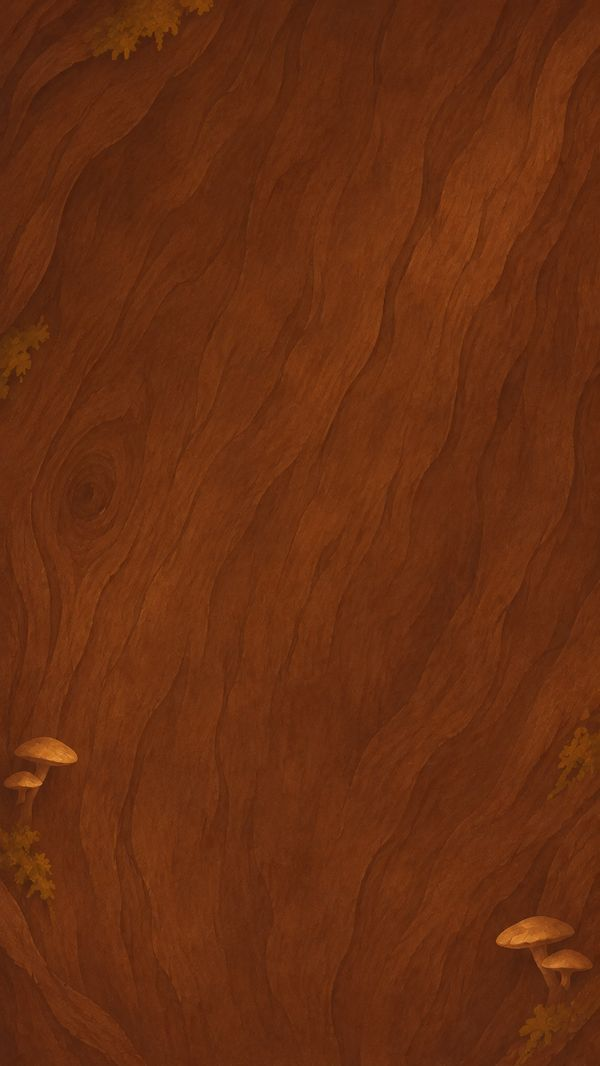
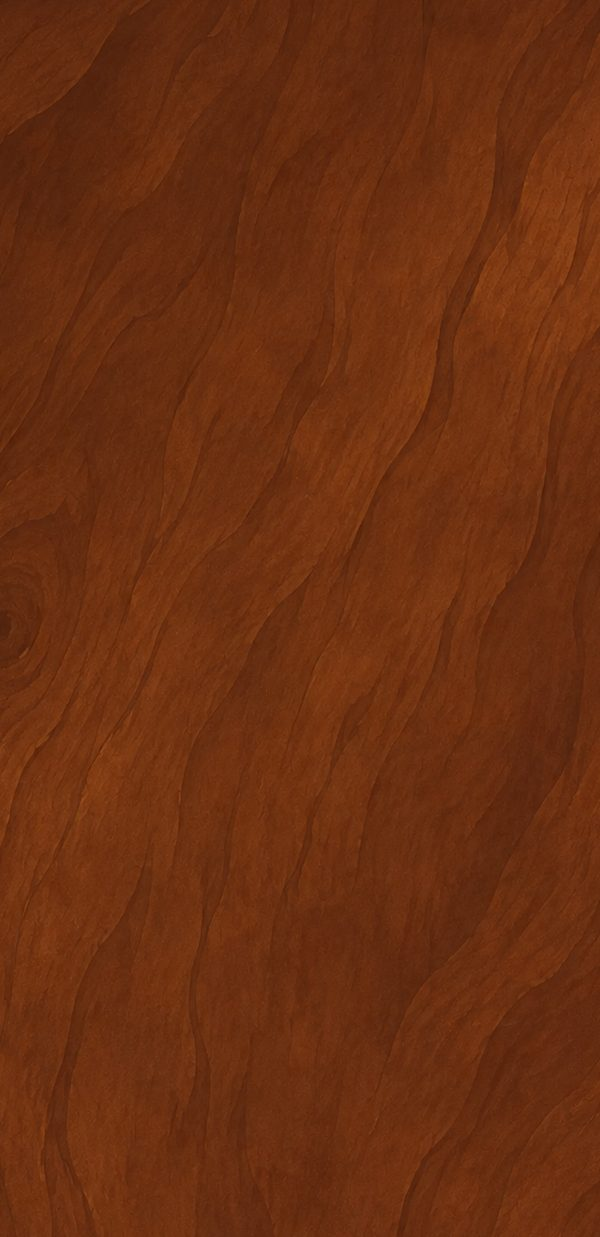
Parking lot: stone wallpaper (light) and darkened stone (dark); dark bark cropped to remove mushrooms and moss
Claude-Session: https://claude.ai/code/session_01P3d8ZTZshbTSJw1MMxChow

diff --git a/styles.css b/styles.css
@@ -428,7 +428,7 @@ html:root[data-look] .tabs button[data-v="today"][aria-current="page"]{backgroun
 .lotbg{position:fixed;inset:0;background:color-mix(in srgb,var(--ink) 45%,transparent);z-index:18;display:flex;justify-content:flex-end}
 .lot{width:min(92%,390px);height:100%;overflow-y:auto;padding:calc(18px + env(safe-area-inset-top,0px)) max(14px,env(safe-area-inset-right,0px)) calc(24px + env(safe-area-inset-bottom,0px)) 16px;display:flex;flex-direction:column;gap:14px;color:var(--paint);
   background-color:var(--pave);
-  background-image:url(art/asphalt.jpg);background-size:cover;background-position:center;box-shadow:-18px 0 40px -20px rgba(0,0,0,.5)}
+  background-image:url(art/stone.jpg);background-size:cover;background-position:center;box-shadow:-18px 0 40px -20px rgba(0,0,0,.5)}
 .lot.enter{animation:lotin .22s ease-out}
 @keyframes lotin{from{transform:translateX(30px);opacity:.4}to{transform:none;opacity:1}}
 .lottitle{font-size:26px;color:var(--paint);border-bottom:3px double var(--paintY);padding-bottom:6px;flex:1}
@@ -705,3 +705,14 @@ html:root[data-look] .tabs button[data-v="today"][aria-current="page"]{backgroun
 :root:not([data-theme="light"])[data-look="creature"] .bay .tag{border-color:#E8CFA0;color:#FBF3E4}
 :root:not([data-theme="light"])[data-look="creature"] .bay .small,:root:not([data-theme="light"])[data-look="creature"] .lotnote{color:#F0E2C8;border-color:#E8CFA0}
 }
+
+/* parking lot: stone in light mode (dark ink), darkened stone at night (cream paint) */
+:root{--pave:#B3ABA2;--pave2:#9C948B;--paint:#2B2622;--paintY:#7A5C0E}
+:root[data-theme="dark"] .lot{background-image:url(art/stone-dark.jpg)}
+@media (prefers-color-scheme:dark){:root:not([data-theme="light"]) .lot{background-image:url(art/stone-dark.jpg)}}
+:root .lotadd button{color:#FFF9EC}
+:root[data-theme="dark"] .lotadd button{color:var(--pave2)}
+@media (prefers-color-scheme:dark){:root:not([data-theme="light"]) .lotadd button{color:var(--pave2)}}
+:root[data-look="creature"] .lotadd button{color:#FBF3E4}
+:root[data-theme="dark"][data-look="creature"] .lotadd button{color:#4A3520}
+@media (prefers-color-scheme:dark){:root:not([data-theme="light"])[data-look="creature"] .lotadd button{color:#4A3520}}

diff --git a/sw.js b/sw.js
@@ -1,6 +1,6 @@
 /* Offline support. Bump VERSION whenever app files change so installed copies update. */
-var VERSION='gs-v65';
-var SHELL=['./','index.html','styles.css','app.js','manifest.webmanifest','icons/icon-192.png','icons/icon-512.png','icons/apple-touch-icon.png','art/library-light.png','art/library-dark.png','art/stroke-long-ink.png','art/stroke-long-gold.png','art/stroke-short-ink.png','art/stroke-short-gold.png','art/stroke-wave-ink.png','art/stroke-wave-gold.png','art/quill-ink.png','art/quill-gold.png','art/birch-trunk.png','art/vine.png','art/gold.png','art/bark.jpg','art/bark-dark.jpg','art/asphalt.jpg','art/enso.png','art/enso-thin.png','art/blot.png'];
+var VERSION='gs-v68';
+var SHELL=['./','index.html','styles.css','app.js','manifest.webmanifest','icons/icon-192.png','icons/icon-512.png','icons/apple-touch-icon.png','art/library-light.png','art/library-dark.png','art/stroke-long-ink.png','art/stroke-long-gold.png','art/stroke-short-ink.png','art/stroke-short-gold.png','art/stroke-wave-ink.png','art/stroke-wave-gold.png','art/quill-ink.png','art/quill-gold.png','art/birch-trunk.png','art/vine.png','art/gold.png','art/bark.jpg','art/bark-dark.jpg','art/stone.jpg','art/stone-dark.jpg','art/enso.png','art/enso-thin.png','art/blot.png'];
 self.addEventListener('install',function(e){
   e.waitUntil(caches.open(VERSION).then(function(c){return c.addAll(SHELL)}).then(function(){return self.skipWaiting()}));
 });
